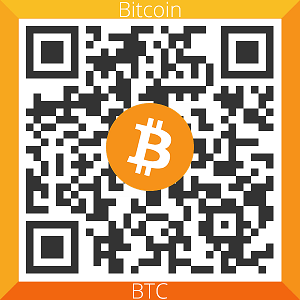
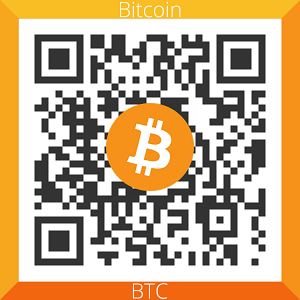
Updated donations addresses

diff --git a/DONATE.md b/DONATE.md
@@ -8,13 +8,10 @@ Alternatively, you can donate using the options below.
 
 ## Bitcoin ##
 ![bitcoin QR code](img/300_Bitcoin_QR_code.png)
-#### 326VU5HbzQuxJo2RaZK4KFgTDHzids68sk ####
+#### 3PSfxCvDbGC5Bu9s5SGgYZAoNQFBzmMuPf ####
 ## Ethereum ##
 ![ether QR code](img/300_Ethereum_QR_code.png)
 #### 0xdF5b9cbB2731d81F757CBFbD5BdFAdb26445A9dA ####
 ## Dash ##
 ![dash QR code](img/300_Dash_QR_code.png)
-#### Xhm93azcvzjuSu3zBnCQa6zbBqpXvg1Ttn ####
-## Zcash ##
-![zcash QR code](img/300_ZCASH_QR_code.png)
-#### t1ZGYhoa9NmXRGQF6dYAQApBKG5N4V9yJym ####
+#### XsiJZDKsaAssyV8ZbgQiKL5CKy1N2wNJTs ####
